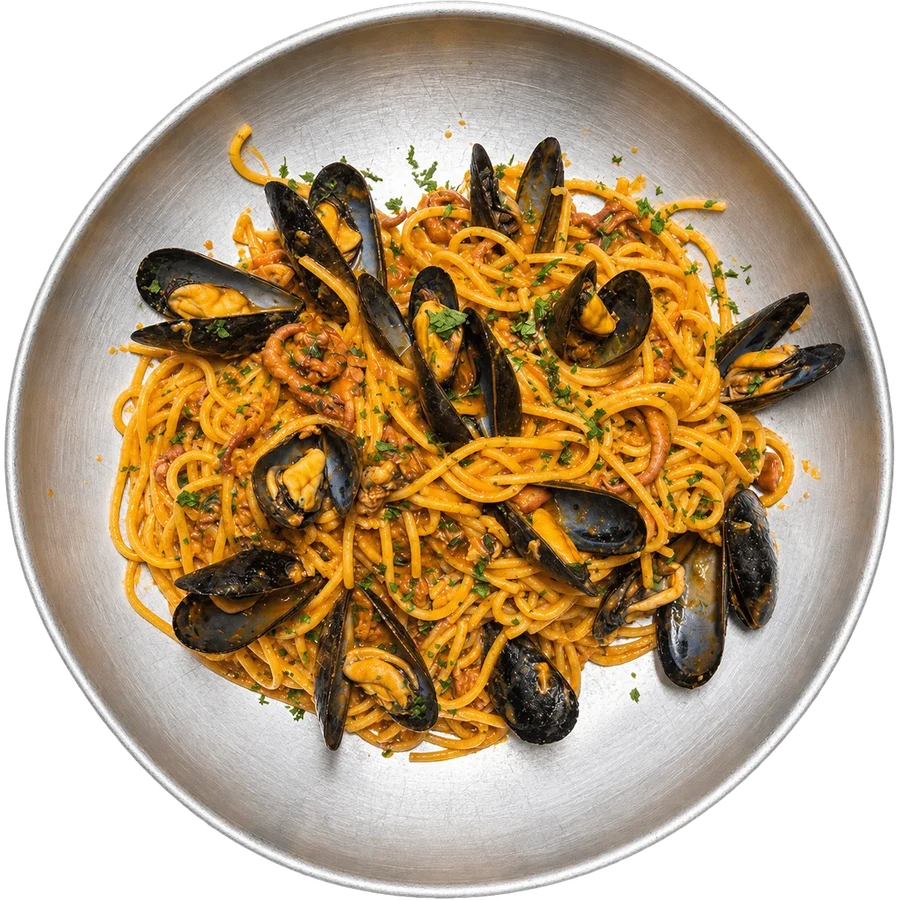
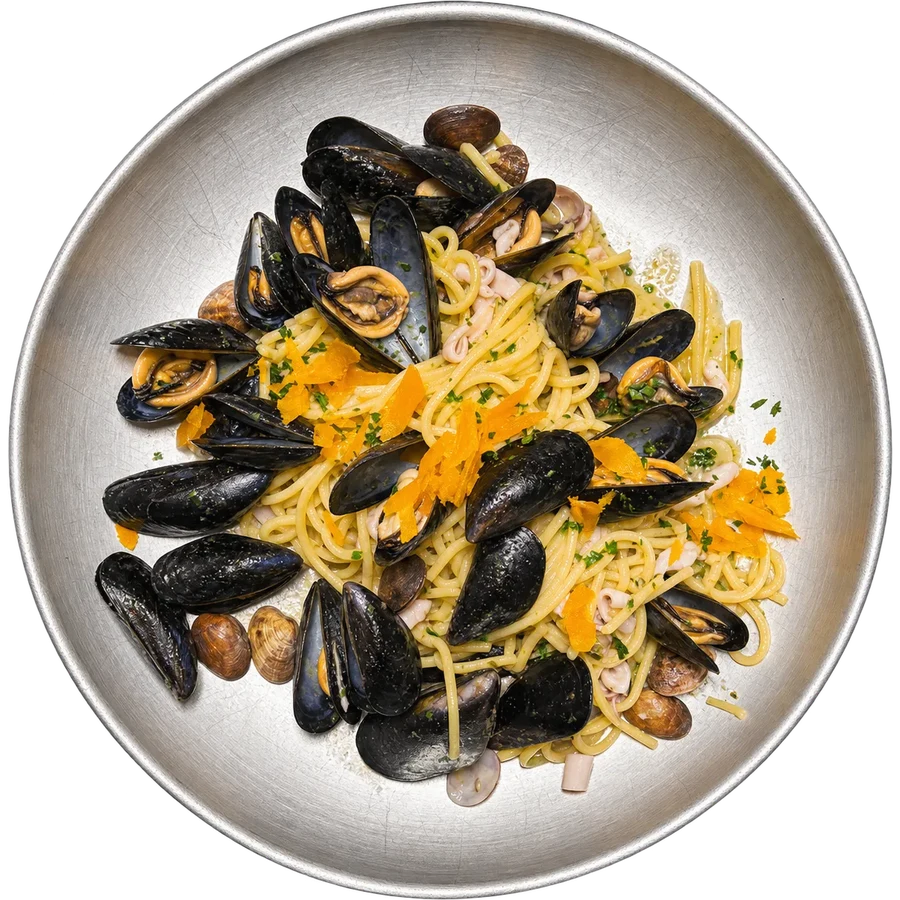
Foto piatti: Linguine ai Muscoli e Linguine ai Frutti di mare

diff --git a/index.html b/index.html
@@ -845,7 +845,7 @@ main{ overflow-x:clip; }
       { n:"Gnocchi alla Bati", d:"Scampi e curry con flambè d'Armagnac." },
       { n:"Caciucco", d:"Su ordinazione." },
       { n:"Linguine ai Muscoli", img:"image/piatti/linguine-muscoli.webp" },
-      { n:"Linguine ai Frutti di mare" },
+      { n:"Linguine ai Frutti di mare", img:"image/piatti/linguine-frutti-di-mare.webp" },
       { n:"Trofie al Pesto di Portovenere" },
       { n:"Gran Plateau di spaghetto alla chitarra all'astice", d:"Minimo 2 persone." }
     ],
